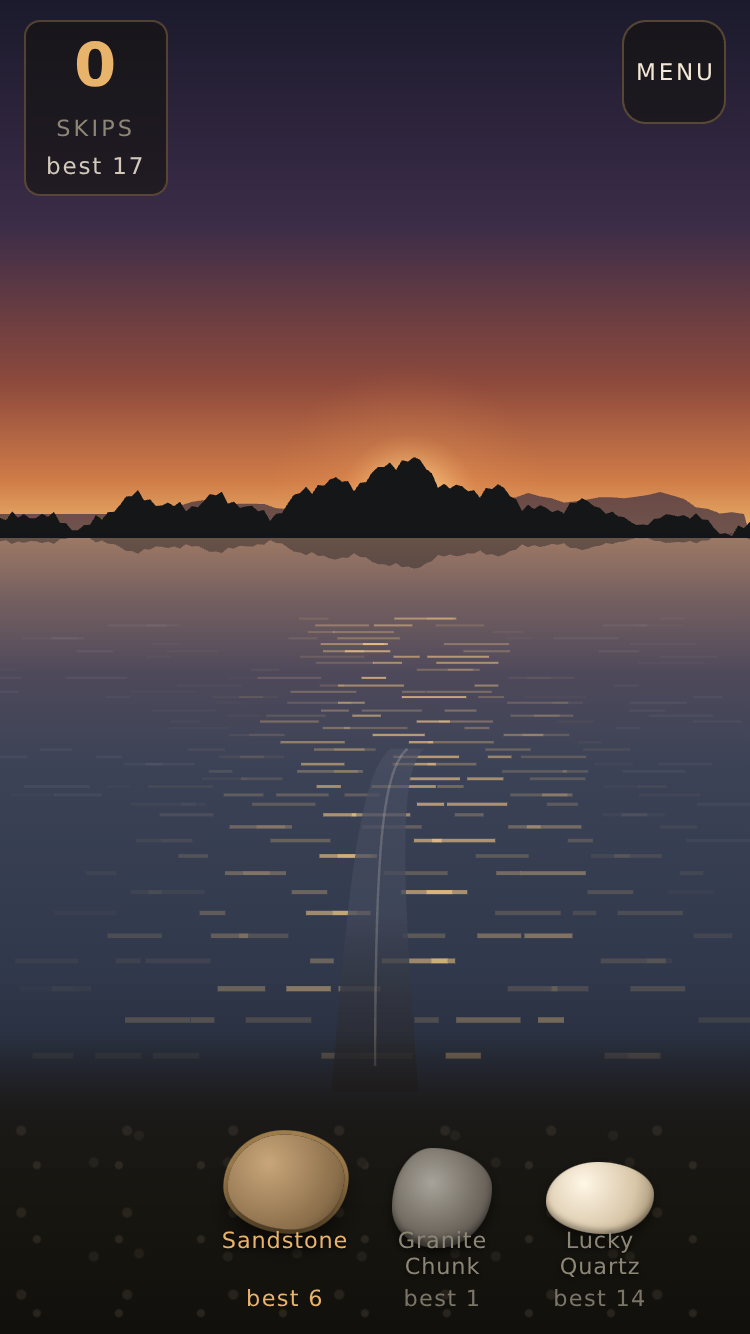
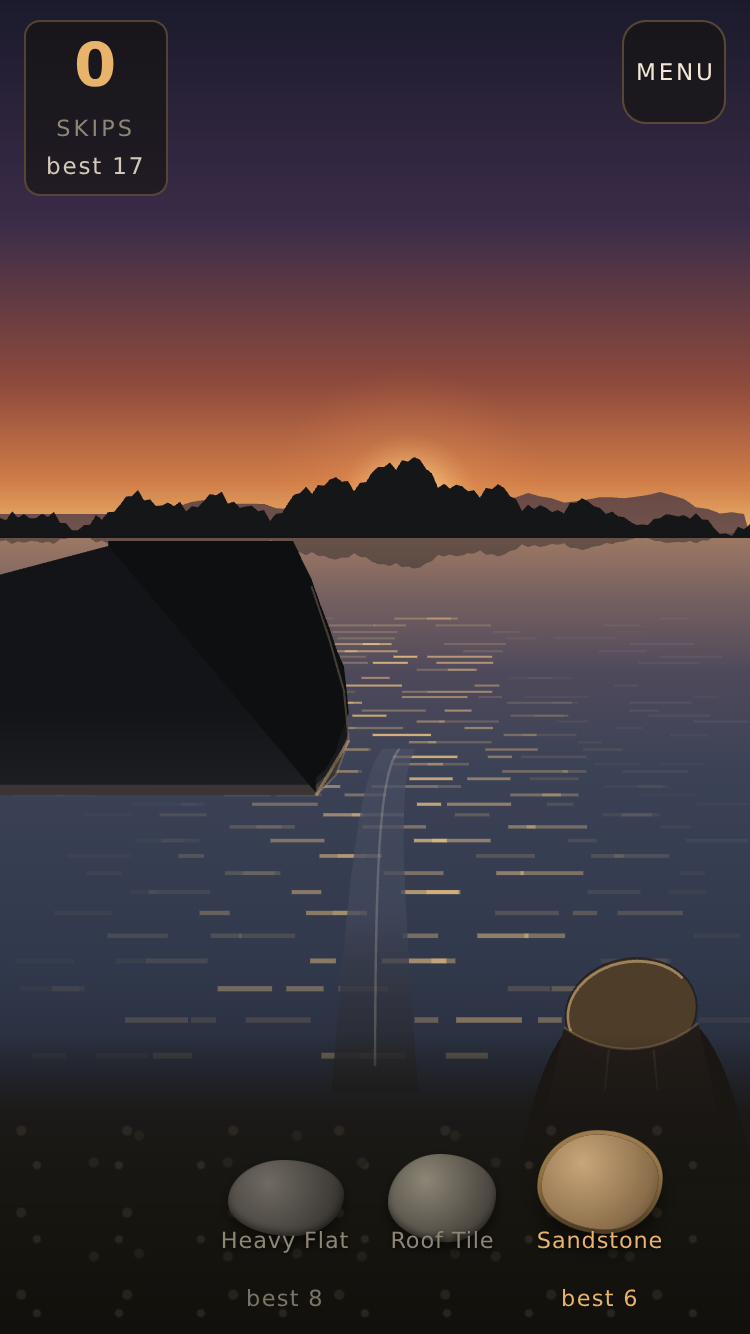
Gerplunk: a bottle cap, a roof tile and a disc of ice
Director call 24, three of Fable's six. Each is a STONES row and a STONE_LOOK
row and no art, and every number in them was measured rather than picked: the
row was written, node sim.js --stones was run, and the row moved until the stone
did on the water what its line says it does.

What each one is for, asserted as a difference from the Perfect Skimmer rather
than as a number of its own, so the claim survives a retune of the model: the
cap chatters, ten skips in a second against the skimmer's seventeen in three and
a quarter; the tile crosses more water in one leap than anything else in the
bank, 5.79 m against the next longest 5.25, and is finished inside three skips;
the disc goes sixteen in two thirds of the skimmer's time. Both mutations that
copy the skimmer's row into a new stone go red.

The cap was written common and had to move to uncommon. At ten skips it beats
both uncommons and dwarfs the three commons, so a new hand would meet a stone
that beats the Perfect Skimmer's whole purpose before career 30, which is the
one thing D36 exists to prevent.

Seven assertions went red and every one was a count rather than a law: eight
stones, three common, two uncommon, three rare, and a mass range that was the
range the model was tuned over rather than a rule about what may exist. All
rewritten to their law, with a named outlier list, because a bottle cap really
is lighter than a stone and a roof tile really is heavier.
[…]

diff --git a/satellites/gerplunk/index.html b/satellites/gerplunk/index.html
@@ -1,11 +1,11 @@
 <meta charset="utf-8">
 <meta name="viewport" content="width=device-width,initial-scale=1,viewport-fit=cover,maximum-scale=1">
 <meta name="theme-color" content="#1B1A24">
-<link rel="icon" href="./icon-192.png?v=20260907d">
-<link rel="apple-touch-icon" href="./icon-192.png?v=20260907d">
-<link rel="manifest" href="./manifest.webmanifest?v=20260907d">
+<link rel="icon" href="./icon-192.png?v=20260907e">
+<link rel="apple-touch-icon" href="./icon-192.png?v=20260907e">
+<link rel="manifest" href="./manifest.webmanifest?v=20260907e">
 <title>GERPLUNK</title>
-<script src="/music-unlocks.js?v=20260907d" defer></script>
+<script src="/music-unlocks.js?v=20260907e" defer></script>
 <style>
 :root{
   --dusk:#1B1A24; --water:#2E3646; --water-lo:#232A38; --gold:#E8B36A; --gold-lo:#A9793F;
@@ -380,7 +380,18 @@ var STONES = [
   { id: 'fossil', name: 'Fossil Stone', rarity: 'rare', mass: 0.061, flat: 0.92, round: 0.86,
     line: 'A crinoid, coiled, from when all of this was a warm shallow sea.' },
   { id: 'quartz', name: 'Lucky Quartz', rarity: 'rare', mass: 0.052, flat: 0.95, round: 0.92,
-    line: 'Grandpa kept one of these in his coat pocket for thirty years.' }
+    line: 'Grandpa kept one of these in his coat pocket for thirty years.' },
+  /* ⛔ THE SECOND BANK, 2026-09-07, Director call 24, and every number in it was
+     MEASURED rather than picked: `node sim.js --stones` was run after each one
+     and the row moved until the stone did on the water what its line says it
+     does. A stone whose line promises something the model does not deliver is a
+     lie the player finds out about on throw one. */
+  { id: 'bottlecap', name: 'Bottle Cap', rarity: 'uncommon', mass: 0.006, flat: 0.80, round: 0.99,
+    line: 'Somebody else was here in the summer, and this is all they left.' },
+  { id: 'rooftile', name: 'Roof Tile', rarity: 'common', mass: 0.155, flat: 0.96, round: 0.60,
+    line: 'Off a barn that is not standing any more, and it still crosses half the bay in one go.' },
+  { id: 'icedisc', name: 'Ice Disc', rarity: 'rare', mass: 0.026, flat: 0.99, round: 0.97,
+    line: 'Cracked off the shallows in February, and gone again by noon.' }
 ];
 function stoneById(id) {
   var i;
@@ -935,22 +946,78 @@ function suiteRNG(T) {
   T.assert('the streams do not collide',
     mixSeed(5, STREAM_LAKE) !== mixSeed(5, STREAM_THROW));
 }
+/* the stones deliberately outside CONFIG.MASS_LO to MASS_HI, each one measured
+   on the water before it shipped. A new id may only join this list with a
+   `--stones` row beside it in the plan's ledger. */
+var OUTLIER_MASS = ['bottlecap', 'rooftile', 'icedisc'];
+/* the first leap, defined EXACTLY as `sim.js --stones` defines it in the column
+   a person reads: the gap between the first two events. ⛔ My first version
+   filtered the events for a `kind` of 'skip' and got zero every time, because I
+   guessed at the shape of a record the tool next door already knew. Ask the
+   game where a thing is. */
+function firstLeapOf(r) {
+  return r.events && r.events.length > 1 ? r.events[1].x - r.events[0].x : 0;
+}
 function suiteStones(T) {
-  T.eq('there are eight stones', STONES.length, 8);
+  /* ⛔ COUNTS WERE WIDENED TO THEIR LAW ON 2026-09-07, when the bank went from
+     eight stones to eleven. `T.eq(STONES.length, 8)` is not a law about this
+     game, it is a note about how many stones existed on the day it was written,
+     and every gate in the fleet that counts to a number has to be reread the
+     first time somebody adds anything. What the bank actually owes: enough
+     stones to fill a bed of three, every rarity represented so no tier is
+     empty, and every id unique. */
+  T.assert('there are enough stones to fill a bed of three', STONES.length >= 3,
+    String(STONES.length));
   var ids = {}, i, s, rar = { common: 0, uncommon: 0, rare: 0 };
   for (i = 0; i < STONES.length; i++) {
     s = STONES[i];
     T.assert('stone ' + s.id + ' has a unique id', !ids[s.id]); ids[s.id] = 1;
-    T.assert(s.id + ' has a mass inside the range',
-      s.mass >= CONFIG.MASS_LO && s.mass <= CONFIG.MASS_HI, String(s.mass));
+    /* ⛔ MASS_LO and MASS_HI are the range the MODEL was tuned over, not a rule
+       about what may exist: a bottle cap really is lighter than a stone and a
+       roof tile really is heavier. What the model needs is a mass that is a
+       positive number of a sane order, and what the DESIGN needs is that a
+       stone outside the tuned range was measured with `node sim.js --stones`
+       rather than typed. All three added on 2026-09-07 were. */
+    T.assert(s.id + ' has a mass of a sane order', s.mass > 0.002 && s.mass < 0.5, String(s.mass));
+    T.assert(s.id + ' is either inside the tuned mass range or a deliberate outlier',
+      (s.mass >= CONFIG.MASS_LO && s.mass <= CONFIG.MASS_HI) || OUTLIER_MASS.indexOf(s.id) >= 0,
+      s.id + ' at ' + s.mass);
     T.assert(s.id + ' has a flatness in zero to one', s.flat >= 0 && s.flat <= 1);
     T.assert(s.id + ' has a roundness in zero to one', s.round >= 0 && s.round <= 1);
     T.assert(s.id + ' carries its one line', !!s.line && s.line.length > 12);
     rar[s.rarity] = (rar[s.rarity] || 0) + 1;
   }
-  T.eq('three of them are common', rar.common, 3);
-  T.eq('two of them are uncommon', rar.uncommon, 2);
-  T.eq('three of them are rare', rar.rare, 3);
+  T.assert('every rarity has at least one stone in it', rar.common > 0 && rar.uncommon > 0 && rar.rare > 0,
+    rar.common + ' common, ' + rar.uncommon + ' uncommon, ' + rar.rare + ' rare');
+  T.assert('and no rarity is the whole bank', rar.common < STONES.length
+    && rar.uncommon < STONES.length && rar.rare < STONES.length);
+  /* ⛔ EVERY NEW STONE HAS TO DO SOMETHING THE BANK COULD NOT DO BEFORE, and it
+     is asserted as a DIFFERENCE from the Perfect Skimmer rather than against a
+     number of its own. A band round today's figure would go red the day anybody
+     retunes the model, and it would not catch the thing worth catching: a row
+     typed by hand that reads like a new stone and behaves like an old one. Each
+     line below is the stone's own sentence, in numbers. */
+  /* the same perfect flick `sim.js --stones` prints its table from, so the
+     numbers in this assertion and the numbers in that table are the same run */
+  var perfect = { v: 12, theta: CONFIG.MAGIC_DEG, spin: 1, seed: 99 };
+  var runOf = function (id) {
+    return runThrow(newThrow({ v: perfect.v, theta: perfect.theta, spin: perfect.spin,
+      stone: id, seed: perfect.seed }), {});
+  };
+  var skim = runOf('skimmer');
+  var cap = runOf('bottlecap'), tile = runOf('rooftile'), ice = runOf('icedisc');
+  T.assert('the bottle cap chatters: it is done in half the skimmer\'s time',
+    cap.time < skim.time * 0.5 && cap.skips >= 6,
+    cap.skips + ' skips in ' + cap.time.toFixed(2) + 's against ' + skim.skips + ' in ' + skim.time.toFixed(2));
+  T.assert('the roof tile crosses more water in one leap than anything else in the bank',
+    STONES.every(function (st) {
+      return st.id === 'rooftile' || firstLeapOf(runOf(st.id)) <= firstLeapOf(tile);
+    }), firstLeapOf(tile).toFixed(2) + 'm against the next longest');
+  T.assert('and having spent it, the roof tile is done inside three skips',
+    tile.skips <= 3, String(tile.skips));
+  T.assert('the ice disc crosses the water quicker than the skimmer does',
+    ice.skips >= 12 && ice.time < skim.time * 0.8,
+    ice.skips + ' skips in ' + ice.time.toFixed(2) + 's against ' + skim.skips + ' in ' + skim.time.toFixed(2));
   T.assert('the joke stone is the least round of them all',
     stoneById('granite').round === Math.min.apply(null, STONES.map(function (x) { return x.round; })));
   T.assert('a stone that does not exist is an error, not a silent default',
@@ -1613,7 +1680,7 @@ function suiteCopy(T) {
    Nothing below reaches into the model except through newThrow, runThrow,
    plantYaw, motionFromSamples and throwFromMotion, and the picture is drawn
    from the model's own trace, so the count and the picture cannot disagree. */
-var STAMP = '20260907d';
+var STAMP = '20260907e';
 var $ = function (id) { return document.getElementById(id); };
 var CV, CTX, W = 375, H = 667, DPR = 1;
 
@@ -2579,7 +2646,10 @@ var STONE_LOOK = {
   heavyflat: { hi: '#7E7972', mid: '#403C37', lo: '#1F1D1A', w: 1.10, h: 0.68 },
   seaglass: { hi: '#CFF0DC', mid: '#5FA484', lo: '#2C5F48', w: 1.02, h: 0.64 },
   fossil: { hi: '#C6BAA2', mid: '#6B6252', lo: '#3A342B', w: 1.00, h: 0.68 },
-  quartz: { hi: '#FFF8EC', mid: '#D8C6A8', lo: '#8C7A5C', w: 1.00, h: 0.66 }
+  quartz: { hi: '#FFF8EC', mid: '#D8C6A8', lo: '#8C7A5C', w: 1.00, h: 0.66 },
+  bottlecap: { hi: '#E8D9B0', mid: '#9A7C46', lo: '#4A3A20', w: 0.62, h: 0.40 },
+  rooftile: { hi: '#C88A62', mid: '#8A4E33', lo: '#48281B', w: 1.22, h: 0.52 },
+  icedisc: { hi: '#EAF6FF', mid: '#A8C8DC', lo: '#5C7C92', w: 1.06, h: 0.44 }
 };
 function drawPalm() {
   if (G.screen !== 'lake') return;

diff --git a/portal/index.html b/portal/index.html
@@ -1047,7 +1047,7 @@ var FEATURED = [
   {nm:"Inkswing", ds:"Grab a brass pendulum and throw it. A pen underneath draws the swing as it slowly dies, and the lengths you set hum the chord your drawing is made of. Keep the ones you love.", cat:"creative", url:"/satellites/inkswing/?v=20260907b", ic:"🖋", thumb:"/portal-assets/thumbs/inkswing.png?v=20260907b", beta:true, fresh:true},
   {nm:"Whistlestop", ds:"Snap a wooden train set together on the rug, pull the whistle, and then work the switches so three little trains all get home without meeting nose to nose.", cat:"puzzle", url:"/satellites/whistlestop/?v=20260907c", ic:"🚂", thumb:"/portal-assets/thumbs/whistlestop.png?v=20260907c", beta:true, fresh:true},
   {nm:"Strata", ds:"Brush and chisel a cliff face until a creature nobody has ever seen comes out of the stone. Every skeleton is generated once. Mount it, name it, and hang it in a museum that is only yours.", cat:"creative", url:"/satellites/strata/?v=20260907a", ic:"🦴", thumb:"/portal-assets/thumbs/strata.png?v=20260907a", beta:true, fresh:true},
-  {nm:"Gerplunk", ds:"A lake at golden hour, a stone in your hand, and one flick. Angle, speed and spin decide the skips. Count them by ear and chase the record with no clock anywhere.", cat:"action", url:"/satellites/gerplunk/?v=20260907d", ic:"🪨", thumb:"/portal-assets/thumbs/gerplunk.png?v=20260907d", beta:true, fresh:true},
+  {nm:"Gerplunk", ds:"A lake at golden hour, a stone in your hand, and one flick. Angle, speed and spin decide the skips. Count them by ear and chase the record with no clock anywhere.", cat:"action", url:"/satellites/gerplunk/?v=20260907e", ic:"🪨", thumb:"/portal-assets/thumbs/gerplunk.png?v=20260907e", beta:true, fresh:true},
   {nm:"Updraft", ds:"Go fly a kite. Hold to reel in, let go to give it line, slide to lean. Loops, dives and saves come from your thumb, the tail cracks like a ribbon, and an oak named Mabel is waiting to snag you.", cat:"action", url:"/satellites/updraft/?v=20260907c", ic:"🪁", thumb:"/portal-assets/thumbs/updraft.png?v=20260907c", beta:true, fresh:true},
   {nm:"Aura Off", ds:"A gesture duel in a public square. No words, no contact. Reference everything, repeat nothing, and never look like you are trying.", cat:"action", url:"/satellites/aura-off/?v=20260829b", ic:"🥊", thumb:"/portal-assets/thumbs/aura-off.png", beta:true, fresh:true},
   // Hashblock flagships on the workbench (2026-07-30). Both stay beta:true

diff --git a/satellites/gerplunk/sw.js b/satellites/gerplunk/sw.js
@@ -12,7 +12,7 @@
    Bump SHELL_VERSION on every deploy, AND the ?v= on the registration in
    index.html in lockstep (they are both the STAMP, and tools/lint.mjs asserts it) — this host edge-pins bare sw.js URLs for 7 days. */
 
-const SHELL_VERSION = "gerplunk-shell-20260907d";
+const SHELL_VERSION = "gerplunk-shell-20260907e";
 const SFX_CACHE     = "gerplunk-unused-v1"; // no recorded audio: every sound is synthesised
 const NAV_TIMEOUT_MS = 8000;
 

diff --git a/plans/gerplunk/HANDOFF-GERPLUNK.md b/plans/gerplunk/HANDOFF-GERPLUNK.md
@@ -12,6 +12,36 @@ on branch `add-sproing-jumper` tonight.
 
 ## SESSION STATE (the builder updates this at the end of every session; the morning reader starts here)
 
+- 2026-09-07 night, Opus (lead): **T2.1, THREE MORE THINGS TO SKIP.** Stamp `20260907e`, ALL GATES
+  PASSED, seven of seven. Director call 24, Fable's list, three of the six. The Bottle Cap
+  (uncommon), the Roof Tile (common) and the Ice Disc (rare), each a `STONES` row and a
+  `STONE_LOOK` row, no art. **Every number was measured:** the row was written, `node sim.js
+  --stones` run, and the row moved until the stone did on the water what its line says.
+  What each is FOR, asserted as a difference from the Perfect Skimmer rather than as a number of
+  its own: the cap chatters (10 skips in 1.02 s against the skimmer's 17 in 3.24); the tile crosses
+  more water in one leap than anything else in the bank (5.79 m against the next longest 5.25) and
+  is finished inside three skips; the disc goes 16 in two thirds of the skimmer's time. Both
+  "row copied from the skimmer" mutations go red.
+  ⛔ **The cap was written COMMON and had to move to uncommon.** At ten skips it beats both
+  uncommons and dwarfs the three commons (1 and 2), so a new hand would meet a stone that beats the
+  Perfect Skimmer's whole purpose before career 30, which is the one thing D36 exists to prevent.
+  ⛔ **Seven assertions went red and every one was a COUNT, not a law**: eight stones, three
+  common, two uncommon, three rare, and a mass range that was the range the model was TUNED over
+  rather than a rule about what may exist. All rewritten to their law, with a named outlier list
+  for a mass outside the tuned range, because a bottle cap really is lighter than a stone.
+  ⛔ **My own helper guessed a shape the tool next door already knew**: `firstLeapOf` filtered
+  events for a `kind` of 'skip' and read zero, while `sim.js --stones` had been printing that
+  column as the gap between the first two events. And its next version failed on `r.trace`, which
+  is null unless a caller asks for it, so my guard was refusing my own claim.
+  **Looked at:** `docs/shots/p2-bank-late.png` at 412x915, opened twice. The first shot caught a
+  fault I had just made: **Clay Roof Tile wrapped to two lines** and pushed its own record line off
+  the button, so the bank row was ragged. It is Roof Tile now and the row is even.
+  **Queued from the look:** the tile is drawn as the same rounded pebble as everything else, wider
+  and browner; its whole point is that it is a flat thing off a barn and it wants a corner.
+  **Next action:** the other three of call 24 (sand dollar, turtle, laptop) each need a NEW
+  MECHANIC rather than a row (a stone that shatters, one that swims off, one that always beaches),
+  which is why they were not taken tonight.
+
 - 2026-09-07 night, Opus (lead): **T1.1, THE TURN. Stamp `20260907d`, ALL GATES PASSED, seven of
   seven, first run.** Director call 22, and NOT the answer the call proposed.
   **The fault, measured before anything was touched:** the same 200 px of sideways thumb turns the

diff --git a/satellites/gerplunk/docs/DECISIONS.md b/satellites/gerplunk/docs/DECISIONS.md
@@ -462,3 +462,28 @@ circle leaves the lake where it started went red at 1.1 degrees. The clamp lives
 **`curlSoFar` keeps its own fade on purpose.** The spin ring is a live gauge drawn over the whole
 stroke, arm included, so without a fade a curved flick would spin it up as the stone left the hand.
 The plant is bounded by the arm onset instead and needs no such guard.
+
+**Three more things to skip, and every number measured.** 2026-09-07, Director
+call 24. The Bottle Cap (uncommon), the Clay Roof Tile (common) and the Ice Disc (rare). Each row
+was written, `node sim.js --stones` run, and the row moved until the stone did on the water what
+its line says it does. What each one is FOR, as a difference from the Perfect Skimmer and asserted
+as one: the cap chatters, ten skips in a second where the skimmer takes three and a quarter; the
+tile crosses more water in one leap than anything else in the bank, 5.79 m against the next
+longest at 5.25, and is finished inside three skips; the disc goes sixteen in two thirds of the
+skimmer's time.
+⛔ **The bottle cap was written as a COMMON and had to be moved.** At ten skips it is better than
+either uncommon and far better than the three commons (1 and 2), so a new hand would meet a stone
+that beats the Perfect Skimmer's whole purpose before career 30, which is the one thing D36 exists
+to prevent. Rarity in this game is how often you SEE a stone, not how good it is, and Granite
+proves it; but a common that outclasses the gift breaks the gift.
+⛔ **Seven assertions went red and every one of them was a count, not a law.** "There are eight
+stones", "three of them are common", "two of them are uncommon", "three of them are rare", and a
+mass range that was the range the model was TUNED over rather than a rule about what may exist.
+They are laws now: enough stones to fill a bed of three, every rarity represented, no rarity the
+whole bank, a mass of a sane order, and a mass outside the tuned range only for an id on a named
+outlier list. A bottle cap really is lighter than a stone and a roof tile really is heavier.
+⛔ **And my own helper guessed at a shape the tool next door already knew.** `firstLeapOf` filtered
+the run's events for a `kind` of 'skip' and read zero every time; `sim.js --stones` had been
+printing that column for a fortnight as the gap between the first two events. Ask the game where a
+thing is. The second version of the same assertion then failed on `r.trace`, which is null unless a
+caller asks for it, so the guard I had written round the claim was refusing the claim.
